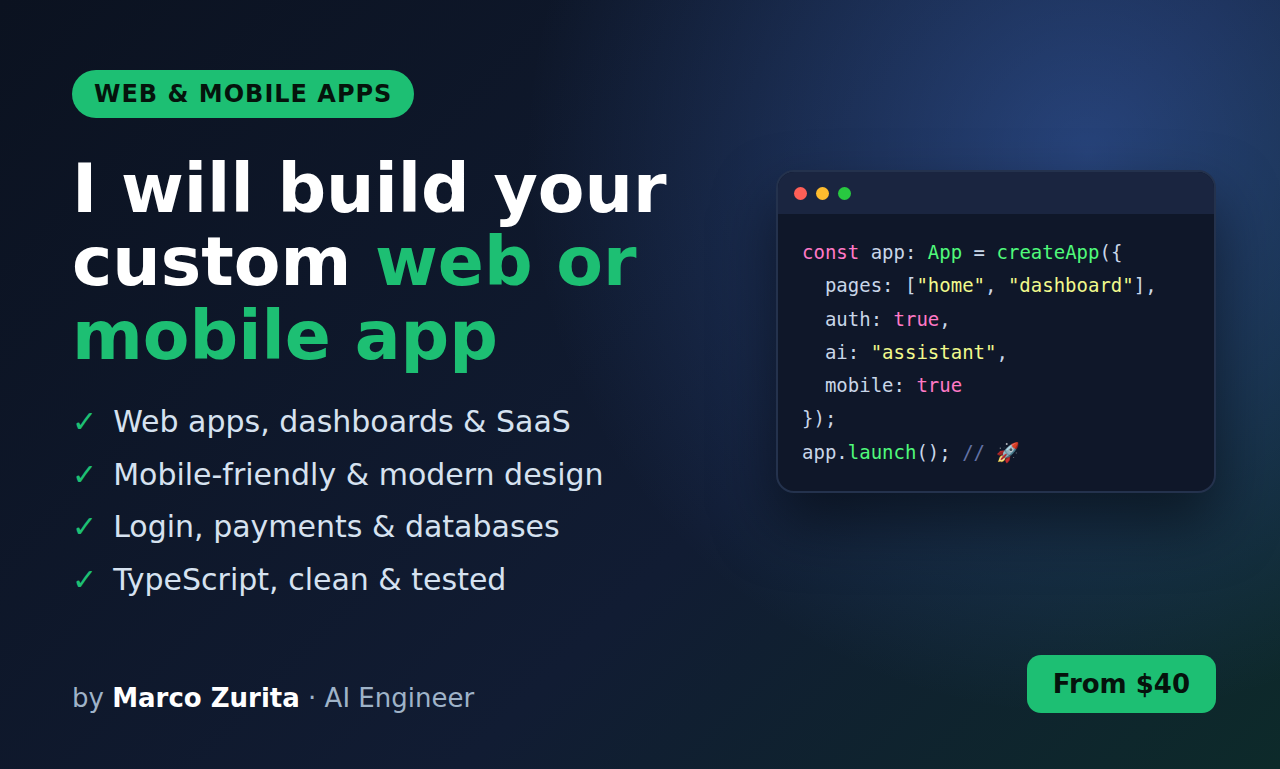
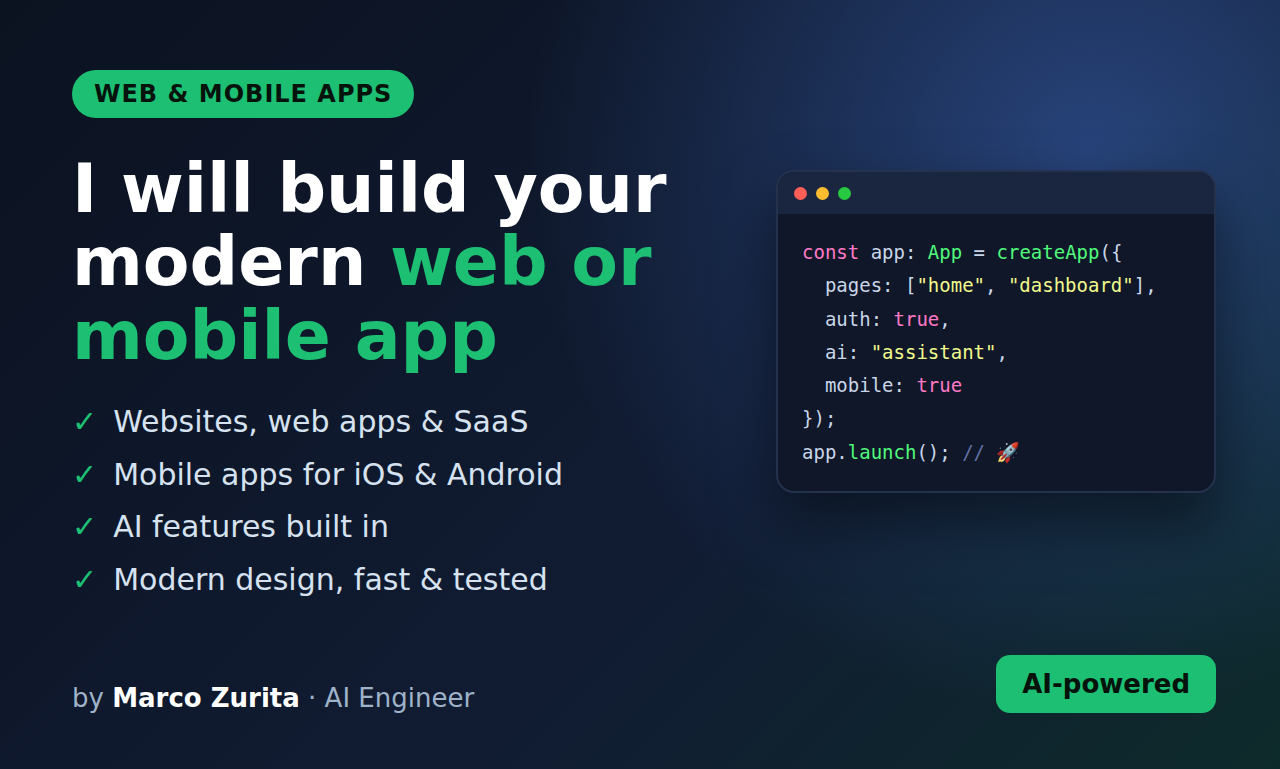
Add web and mobile app gig images
Claude-Session: https://claude.ai/code/session_01JYi9UtEfbSyWFLda4yBc9V

diff --git a/fiverr/extras.js b/fiverr/extras.js
@@ -31,6 +31,34 @@ const pages = [
 <div class="st"><div class="n">2</div><h3>I design &amp; build</h3><p>Custom chatbot or agent, trained on your information and tools.</p></div>
 <div class="st"><div class="n">3</div><h3>Tested &amp; delivered</h3><p>Checked for accurate answers, documented and ready to use.</p></div></div>
 <div class="name">by <b>Marco Zurita</b> · AI Engineer</div></div>`},
+
+{file:'gig2-web-process.png', html:`<style>${base.replace('rgba(170,90,255,.38)','rgba(80,140,255,.38)')}
+.steps{display:grid;grid-template-columns:repeat(4,1fr);gap:20px}
+.st{background:rgba(255,255,255,.06);border:2px solid #2a3a5a;border-radius:22px;padding:30px 24px;height:330px}
+.n{width:58px;height:58px;border-radius:50%;background:#1dbf73;color:#05130c;font-weight:800;font-size:28px;display:flex;align-items:center;justify-content:center;margin-bottom:22px}
+.st h3{font-size:28px;margin-bottom:12px}.st p{font-size:21px;line-height:1.45;color:#c9d6e8}
+</style><div class="c"><div class="tag">HOW IT WORKS</div>
+<h1>From idea to <span>launch</span></h1>
+<div class="steps">
+<div class="st"><div class="n">1</div><h3>Your idea</h3><p>Tell me your goal, users and references.</p></div>
+<div class="st"><div class="n">2</div><h3>Design</h3><p>Modern, clean screens for web and mobile.</p></div>
+<div class="st"><div class="n">3</div><h3>Build + AI</h3><p>Fast app with smart AI features built in.</p></div>
+<div class="st"><div class="n">4</div><h3>Test &amp; launch</h3><p>Fully tested, deployed and ready for users.</p></div></div>
+<div class="name">by <b>Marco Zurita</b> · AI Engineer</div></div>`},
+{file:'gig2-web-features.png', html:`<style>${base.replace('rgba(170,90,255,.38)','rgba(80,140,255,.38)')}
+.grid{display:grid;grid-template-columns:repeat(3,1fr);gap:22px}
+.f{background:rgba(255,255,255,.06);border:2px solid #2a3a5a;border-radius:20px;padding:26px 26px;height:150px}
+.f b{display:block;font-size:28px;color:#1dbf73;margin-bottom:10px}.f p{font-size:21px;line-height:1.4;color:#d6e2f0}
+</style><div class="c"><div class="tag">WHAT YOU CAN GET</div>
+<h1>Next-generation apps, <span>powered by AI</span></h1>
+<div class="grid">
+<div class="f"><b>AI assistant</b><p>Chat that helps your users 24/7</p></div>
+<div class="f"><b>Smart search</b><p>Users find anything instantly</p></div>
+<div class="f"><b>Dashboards</b><p>Your data, clear and in real time</p></div>
+<div class="f"><b>Mobile apps</b><p>iOS and Android ready</p></div>
+<div class="f"><b>Payments &amp; login</b><p>Secure accounts and checkout</p></div>
+<div class="f"><b>Tested quality</b><p>10+ years of QA experience</p></div></div>
+<div class="name">by <b>Marco Zurita</b> · AI Engineer</div></div>`},
 ];
 (async()=>{const b=await chromium.launch();const p=await b.newPage({viewport:{width:1280,height:769}});
 for(const x of pages){await p.setContent('<!doctype html><meta charset="utf-8">'+x.html);await p.screenshot({path:x.file});}await b.close();})();

diff --git a/fiverr/render.js b/fiverr/render.js
@@ -13,15 +13,15 @@ const covers = [
 });
 <span class="cm">// ✓ answers 24/7</span>`, badge:'AI Engineer'},
  {file:'gig2-webapp.png', glow:'rgba(80,140,255,.35)', tag:'WEB &amp; MOBILE APPS',
-  title:'I will build your custom <span>web or mobile app</span>',
-  list:['Web apps, dashboards &amp; SaaS','Mobile-friendly &amp; modern design','Login, payments &amp; databases','TypeScript, clean &amp; tested'],
+  title:'I will build your modern <span>web or mobile app</span>',
+  list:['Websites, web apps &amp; SaaS','Mobile apps for iOS &amp; Android','AI features built in','Modern design, fast &amp; tested'],
   code:`<span class="k">const</span> app: <span class="f">App</span> = <span class="f">createApp</span>({
   pages: [<span class="s">"home"</span>, <span class="s">"dashboard"</span>],
   auth: <span class="k">true</span>,
   ai: <span class="s">"assistant"</span>,
   mobile: <span class="k">true</span>
 });
-app.<span class="f">launch</span>(); <span class="cm">// 🚀</span>`, badge:'From $40'},
+app.<span class="f">launch</span>(); <span class="cm">// 🚀</span>`, badge:'AI-powered'},
  {file:'gig3-automation.png', glow:'rgba(29,191,115,.35)', tag:'BUSINESS AUTOMATION',
   title:'I will <span>automate</span> your repetitive tasks',
   list:['Python &amp; Playwright bots','Excel, email &amp; data workflows','Web scraping &amp; API integrations','Save hours every week'],
